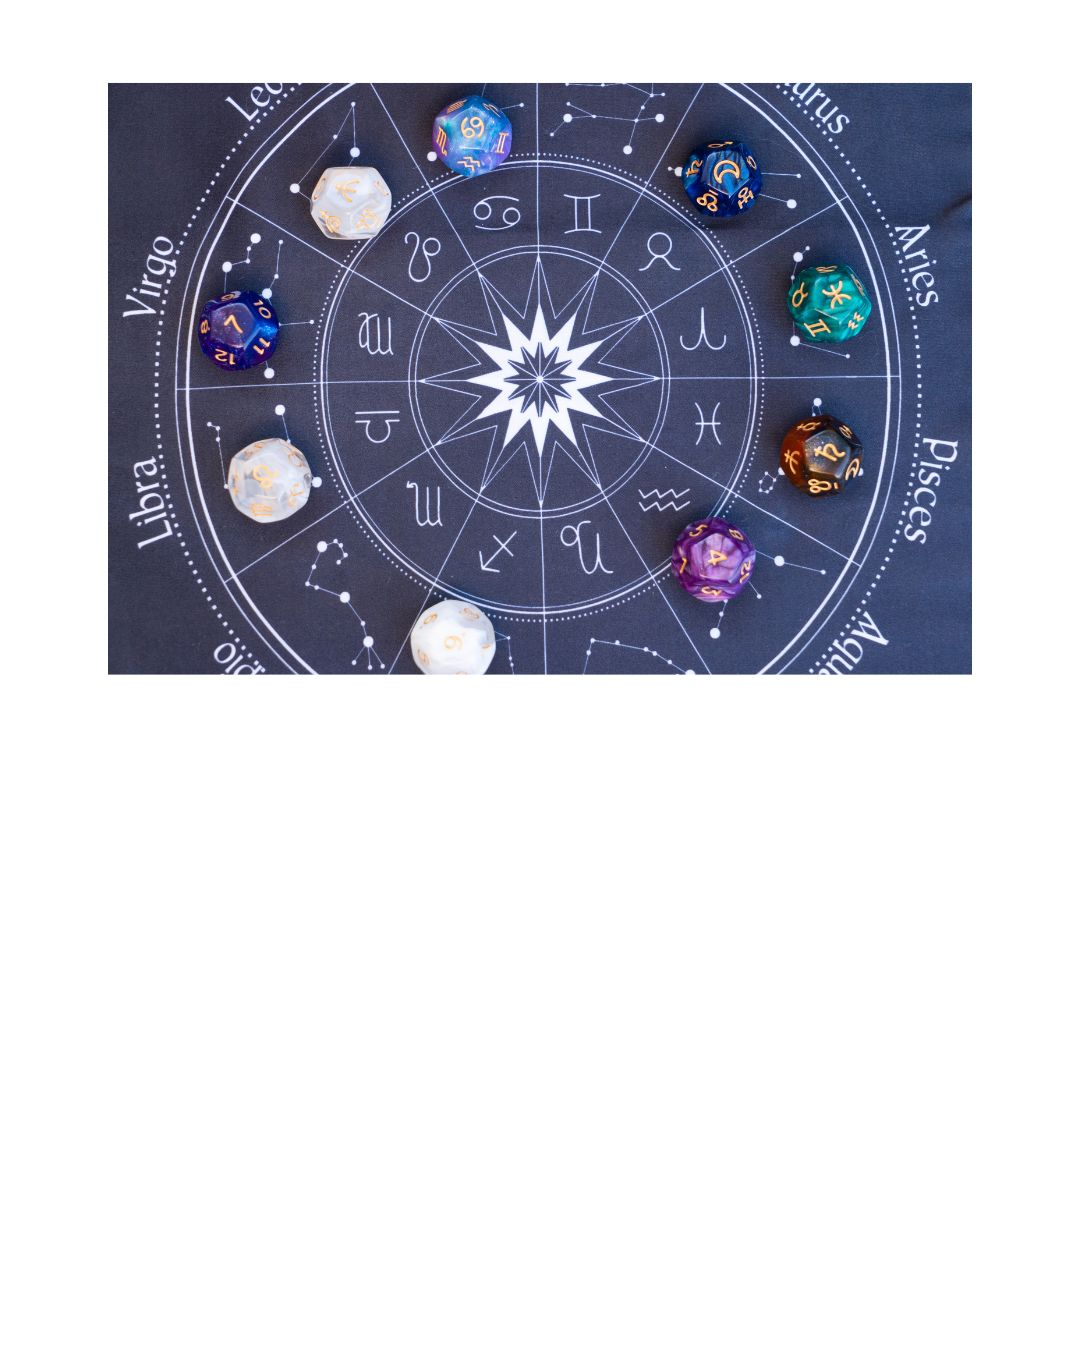
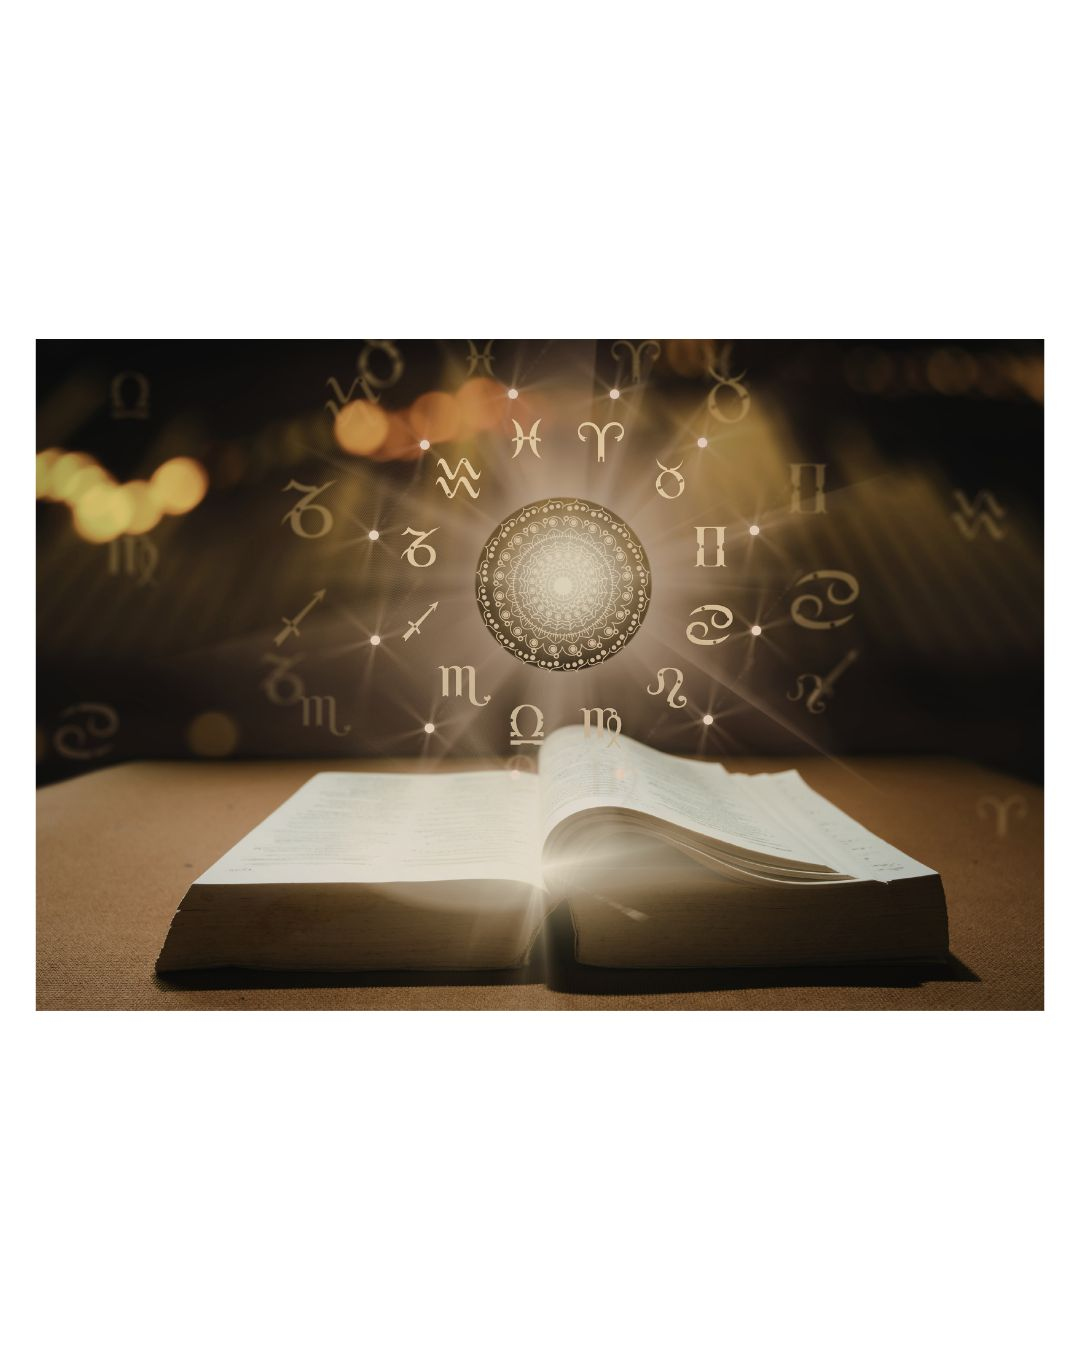
Update hoshi/omoikomi photos, add akemi to card 03

diff --git a/index.html b/index.html
@@ -1440,6 +1440,9 @@
         </article>
 
         <article class="reason-card reason-card--full">
+          <div class="reason-card__photo">
+            <img src="akemi.jpeg" alt="古賀明美" loading="lazy" />
+          </div>
           <div class="reason-card__inner">
             <div class="reason-card__num">03</div>
             <h3 class="reason-card__title">「優等生」を生きてきた私だから、わかることがある</h3>